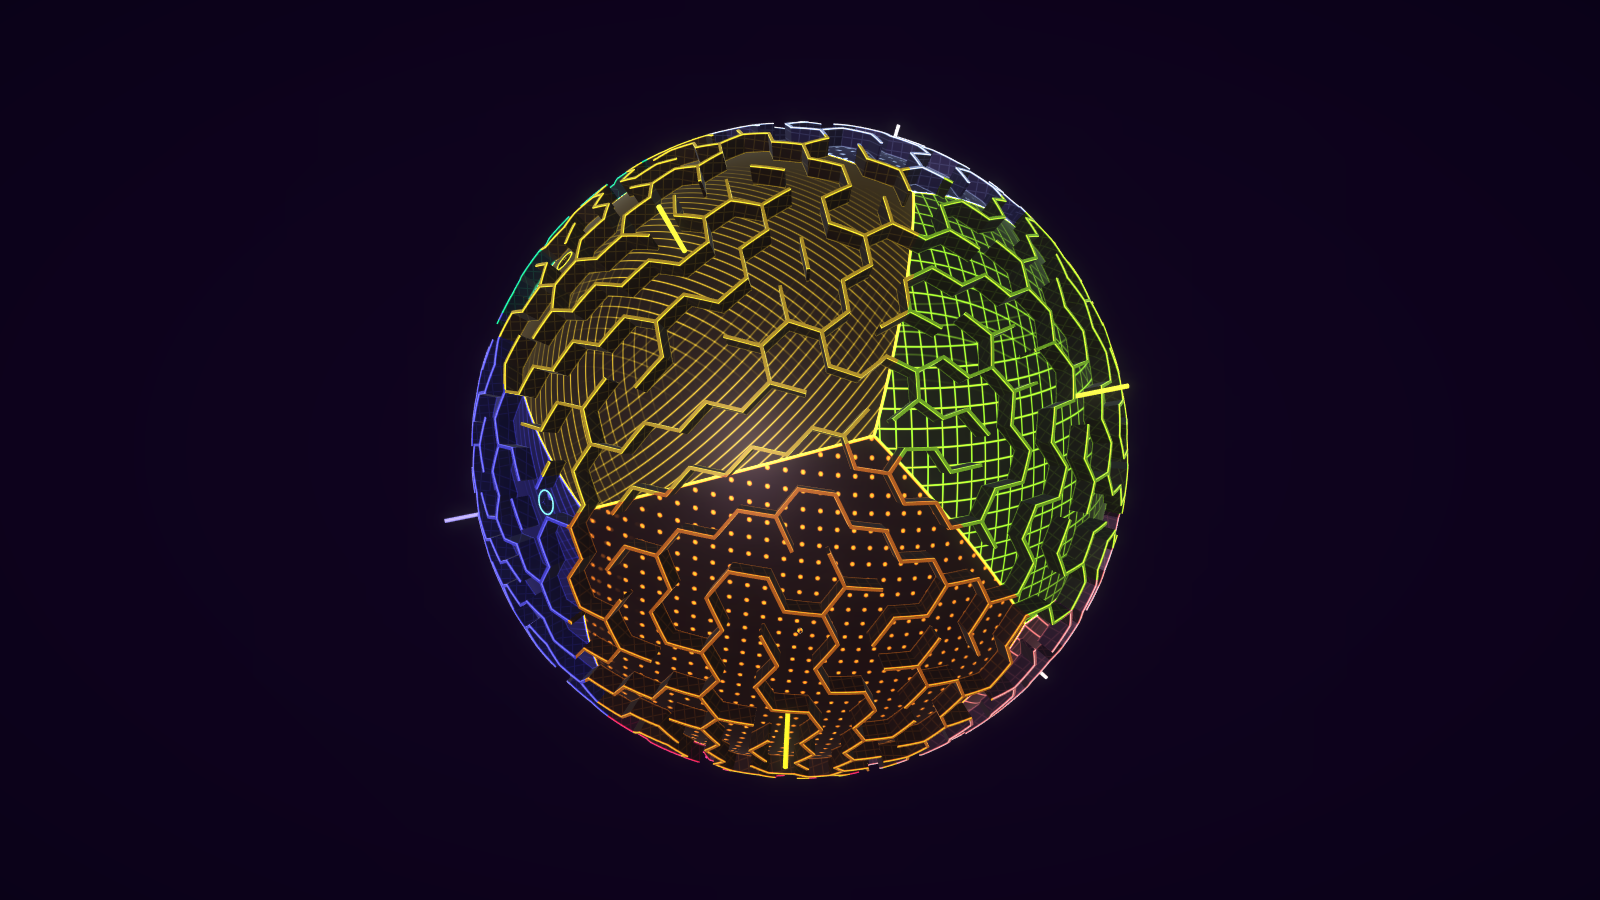
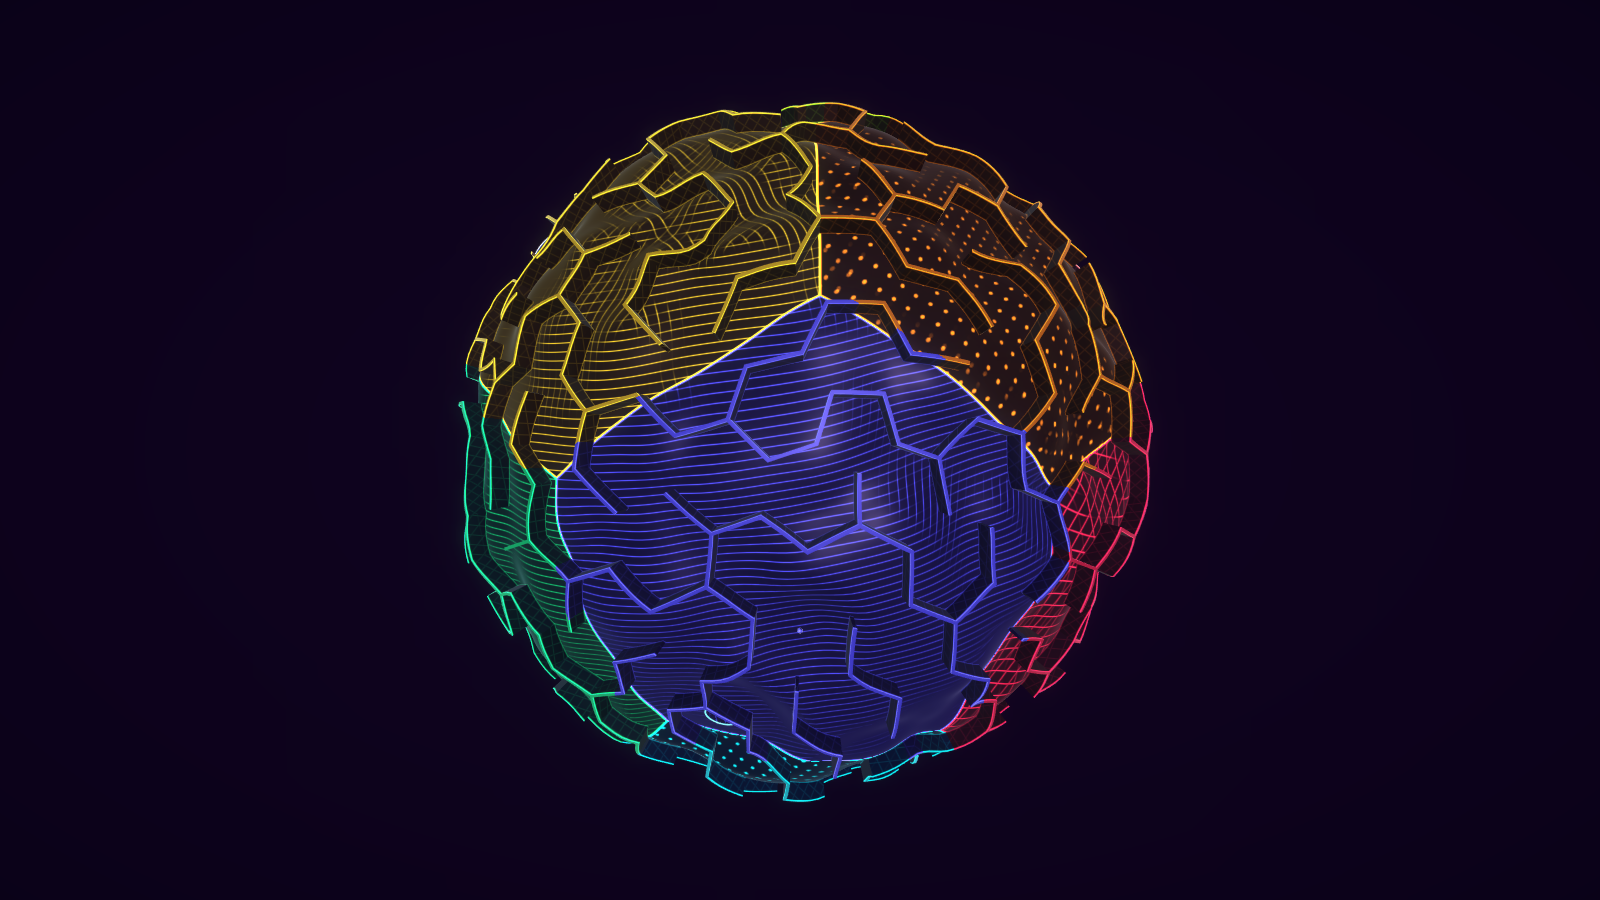
Update README screenshots for hills and light beams
The screenshot tool now sets the ball on the ground (hills included)
and shows the light beam over the section's exit.

Changed region(s): [[0.2812, 0.0933, 0.7188, 0.9022]]

diff --git a/Assets/Editor/SphereDescentSetup.cs b/Assets/Editor/SphereDescentSetup.cs
@@ -558,12 +558,24 @@ namespace SphereDescent.EditorTools
                 Object.DestroyImmediate(tex);
             }
 
+            // Height of the ground (hills included) on a shell in a direction: the highest point of the shell's
+            // own surface below the shell above.
+            float Ground(int shell, Vector3 dir)
+            {
+                dir = dir.normalized;
+                float top = shell == 0 ? settings.shellRadii[0] + 50f : settings.shellRadii[shell - 1] - settings.shellThickness - 0.05f;
+                float best = settings.SurfaceRadius(shell);
+                foreach (var hit in Physics.RaycastAll(dir * top, -dir, top - settings.SurfaceRadius(shell) + 0.5f))
+                    if (hit.collider.name == "Shell") best = Mathf.Max(best, hit.point.magnitude);
+                return best;
+            }
+
             // The in-game camera: behind and above the ball, looking along forward, pulled in like the real
             // camera when a wall is in the way.
             void GameView(string name, int shell, Vector3 ballDir, Vector3 lookToward, float pitch)
             {
-                float r = settings.SurfaceRadius(shell);
                 Vector3 up = ballDir.normalized;
+                float r = Ground(shell, up);
                 Vector3 ballPos = up * (r + 0.5f);
                 Vector3 fwd = Vector3.ProjectOnPlane(lookToward.normalized * r - ballPos, up).normalized;
                 Vector3 lookDir = Quaternion.AngleAxis(pitch, Vector3.Cross(up, fwd)) * fwd;
@@ -610,6 +622,8 @@ namespace SphereDescent.EditorTools
             float r0 = settings.shellRadii[0];
             var g0 = layout.Grids[0];
             Vector3 start = g0.CellCenters[layout.StartCell];
+            // Show the light beam over the first section's exit, as at the start of a game.
+            level.SetBeamSection(0);
 
             // Whole planet, from space.
             Vector3 side = Vector3.ProjectOnPlane(new Vector3(0.3f, 0.6f, 1f), start).normalized;
@@ -644,7 +658,9 @@ namespace SphereDescent.EditorTools
                 var route = Route(i);
                 Vector3 padDir = layout.Holes[i].Direction;
                 Vector3 near = Vector3.Slerp(grid.CellCenters[route[route.Count - 2]], padDir, 0.3f);
+                level.SetBeamSection(i);
                 GameView("boost_pad", sec.Shell, near, padDir, 14f);
+                level.SetBeamSection(0);
                 break;
             }
 
